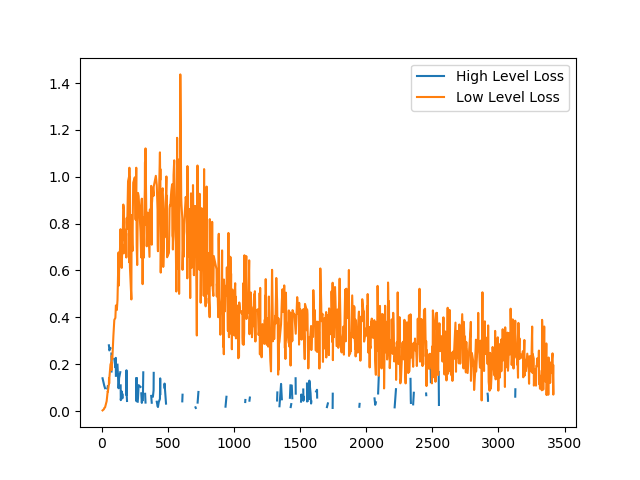
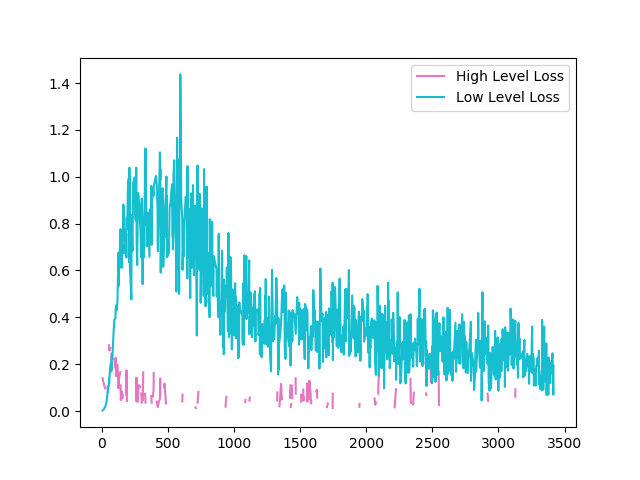
whoops

Changed region(s): [[0.1562, 0.2812, 0.875, 0.8438], [0.6562, 0.1562, 0.6875, 0.2188]]

diff --git a/analysis/analyse_results.py b/analysis/analyse_results.py
@@ -34,10 +34,10 @@ plt.figure()
 plt.plot(hier_hi_loss[0], np.where(hier_hi_loss[1]==0, np.nan, hier_hi_loss[1]), label="High Level Loss", color='tab:pink')
 plt.plot(hier_lo_loss[0], np.where(hier_lo_loss[1]==0, np.nan, hier_lo_loss[1]), label="Low Level Loss", color='tab:cyan')
 plt.legend()
-plt.savefig('analysis/hier_loss.png')
+plt.savefig('hier_loss.png')
 
 plt.figure()
 plt.plot(*hier_hi_score, label="High Level Score", color='tab:pink')
 plt.plot(*hier_lo_score, label="Low Level Score", color='tab:cyan')
 plt.legend()
-plt.savefig('analysis/hier_score.png')
+plt.savefig('hier_score.png')
